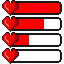
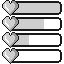
Use pastel colors for players + tint healthbar with player's color

diff --git a/left-4-dead/allies.js b/left-4-dead/allies.js
@@ -1,10 +1,10 @@
 class Allies {
   constructor(scene) {
     this.scene = scene;
-    this.player = new Player(this.scene, 6*16, 8*16, 0xff00ff);
-    this.ally1 = new Ally(this.scene, 3*16-8, 7*16-8, "ally1", 0xffff00);
-    this.ally2 = new Ally(this.scene, 6*16-8, 7*16-8, "ally2", 0x0000ff);
-    this.ally3 = new Ally(this.scene, 3*16-8, 10*16-8, "ally3", 0x00ff00);
+    this.player = new Player(this.scene, 6*16, 8*16, 0xCB904D);
+    this.ally1 = new Ally(this.scene, 3*16-8, 7*16-8, "ally1", 0x59CD90);
+    this.ally2 = new Ally(this.scene, 6*16-8, 7*16-8, "ally2", 0xEE6352);
+    this.ally3 = new Ally(this.scene, 3*16-8, 10*16-8, "ally3", 0x24ACFC);
 
     this.group = [];
     this.group.push(this.player);

diff --git a/left-4-dead/healthbar.js b/left-4-dead/healthbar.js
@@ -1,5 +1,6 @@
 class HealthBar {
-  constructor(scene, visible = true) {
+  constructor(owner, scene, visible = true) {
+    this.owner = owner;
     this.scene = scene;
     this.hp = 100;
     this.extrahp = 300;
@@ -8,6 +9,7 @@ class HealthBar {
     this.sprite.setDepth(4);
     this.sprite.setScrollFactor(0);
     this.sprite.setVisible(this.visible);
+    this.sprite.setTint(owner.color);
   }
 
   gainHp(hp) {

diff --git a/left-4-dead/game.js b/left-4-dead/game.js
@@ -446,7 +446,7 @@ class GameScene extends Phaser.Scene {
     this.aidirector = new AIDirector(this, this.allies, this.enemies);
 
     this.camera = this.cameras.main;
-    this.camera.startFollow(this.allies.player, false, 0.02);
+    this.camera.startFollow(this.allies.player, true, 0.02);
     this.camera.setZoom(2);
 
     this.isBeingRemoved = false;

diff --git a/left-4-dead/player.js b/left-4-dead/player.js
@@ -14,7 +14,7 @@ class Player extends Phaser.Physics.Arcade.Sprite {
     this.setTint(color);
     this.setFrame('player-walk-left-down-1.png');
 
-    this.healthbar = new HealthBar(scene);
+    this.healthbar = new HealthBar(this, scene);
     this.helpBar = new HelpBar(scene);
     this.helpSign = new HelpSign(scene);
 

diff --git a/left-4-dead/ally.js b/left-4-dead/ally.js
@@ -13,7 +13,7 @@ class Ally extends Phaser.Physics.Arcade.Sprite {
     this.name = name;
     this.setTint(color);
 
-    this.healthbar = new HealthBar(scene, false);
+    this.healthbar = new HealthBar(this, scene, false);
     this.helpBar = new HelpBar(scene);
     this.helpSign = new HelpSign(scene);
 
